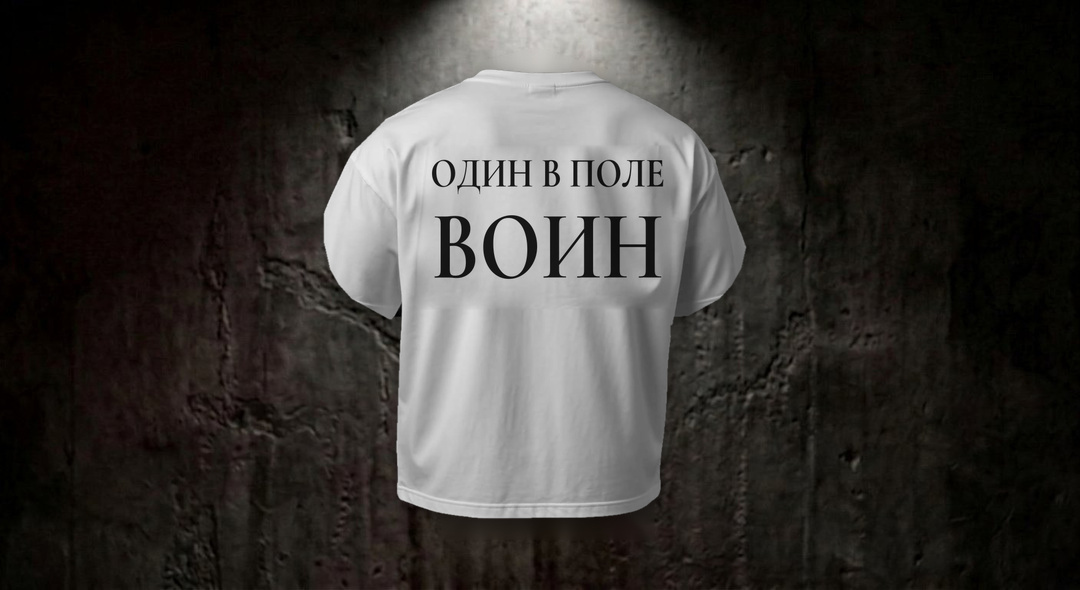
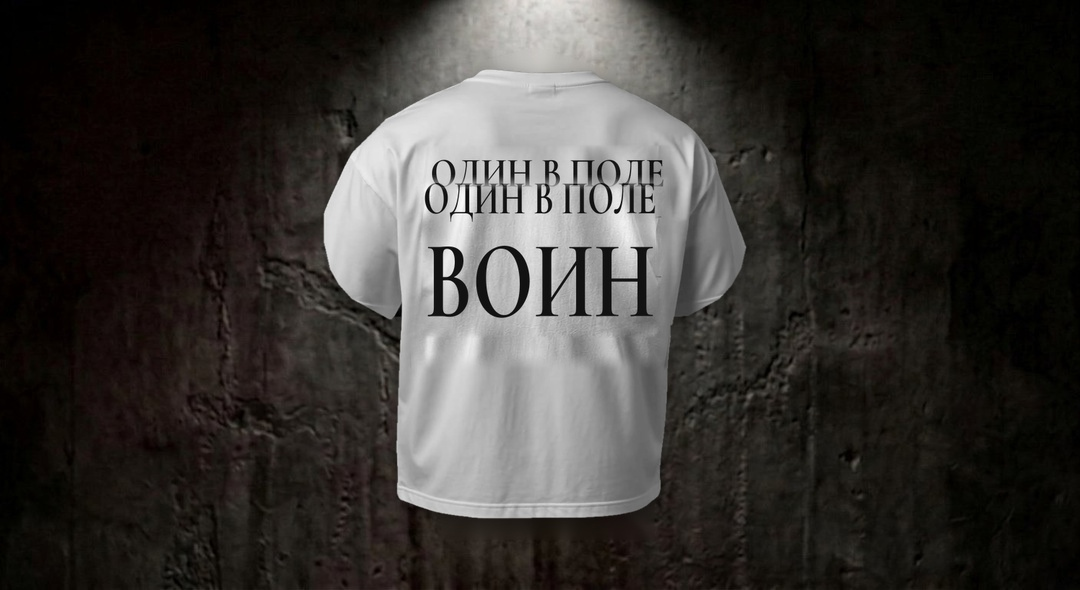
fix(catalog,media): eliminate blur boxes, wrong prints, and fake labels on product cards

Changed region(s): [[0.3667, 0.3051, 0.6111, 0.6102]]

diff --git a/miniapp/app.js b/miniapp/app.js
@@ -1321,7 +1321,7 @@
     const canPlay = welcomeCanPlay();
     const fallback = $("#welcomeFallback");
     const isPlaying = video.classList.contains("is-playing");
-    if (fallback) fallback.classList.toggle("hidden", isPlaying);
+    if (fallback) fallback.classList.toggle("hidden", canPlay || (!reducedMotion() && Boolean(welcomePlayback.source)));
     // Источник ставим сразу, не дожидаясь конца загрузки и гейта воспроизведения:
     // ролик буферизуется уже под бут-штампом и стартует мгновенно.
     if (!saverBlocked && !reducedMotion() && welcomePlayback.source && video.getAttribute("src") !== welcomePlayback.source) {

diff --git a/tools/fix_product_cards.py b/tools/fix_product_cards.py
@@ -1,0 +1,180 @@
+#!/usr/bin/env python3
+"""Fix all visual defects, blur boxes, wrong prints, and wrong tags in product cards."""
+from pathlib import Path
+from PIL import Image
+import numpy as np
+import cv2
+
+ROOT = Path(__file__).resolve().parents[1]
+MINIAPP = ROOT / "miniapp"
+SPIN = MINIAPP / "assets/spin"
+DROP = MINIAPP / "assets/drop"
+PHOTOS = ROOT / "task_materials/chat_export/photos"
+
+
+def fix_tee_sich():
+    print("Fixing tee-sila-i-chest...")
+    # 1. Flatlay: clean chest from original flatlay, real folded woven hem tag, blade & collar patch on back
+    v1 = Image.open(DROP / "tee-flatlay.jpg").resize((1080, 1080), Image.Resampling.LANCZOS)
+    v2 = Image.open(DROP / "tee-flatlay-v2.jpg")
+    flatlay = v1.copy()
+    # Right shirt (back) with collar patch & blade
+    right_shirt = v2.crop((530, 0, 1080, 1080))
+    flatlay.paste(right_shirt, (530, 0))
+    # Hem label on left shirt
+    hem_patch = v2.crop((475, 785, 515, 850))
+    flatlay.paste(hem_patch, (475, 785))
+    flatlay.save(DROP / "tee-flatlay-v2.jpg", quality=96)
+    print("  -> Updated tee-flatlay-v2.jpg")
+
+    # Woven tag patch for 3D spin frames
+    tag_patch_front = hem_patch.resize((26, 42), Image.Resampling.LANCZOS)
+
+    # 2. Spin frames tee-sich-01-v4 to 08-v4
+    # Frame 01 (front): sharp clean chest without inpainting blur, authentic woven folded label tag
+    s1 = Image.open(SPIN / "tee-sich-01.jpg").resize((1080, 590), Image.Resampling.LANCZOS)
+    s1.paste(tag_patch_front, (633, 475))
+    s1.save(SPIN / "tee-sich-01-v4.jpg", quality=96)
+
+    # Frame 02 (angle)
+    s2 = Image.open(SPIN / "tee-sich-02.jpg").resize((1080, 590), Image.Resampling.LANCZOS)
+    tag_patch_02 = hem_patch.resize((20, 40), Image.Resampling.LANCZOS)
+    s2.paste(tag_patch_02, (649, 454))
+    s2.save(SPIN / "tee-sich-02-v4.jpg", quality=96)
+
+    # Frame 03 (side)
+    s3 = Image.open(SPIN / "tee-sich-03.jpg").resize((1080, 590), Image.Resampling.LANCZOS)
+    tag_patch_03 = hem_patch.resize((22, 40), Image.Resampling.LANCZOS)
+    s3.paste(tag_patch_03, (594, 480))
+    s3.save(SPIN / "tee-sich-03-v4.jpg", quality=96)
+
+    # Frame 07 (side)
+    s7 = Image.open(SPIN / "tee-sich-07.jpg").resize((1080, 590), Image.Resampling.LANCZOS)
+    tag_patch_07 = hem_patch.resize((22, 40), Image.Resampling.LANCZOS)
+    s7.paste(tag_patch_07, (480, 475))
+    s7.save(SPIN / "tee-sich-07-v4.jpg", quality=96)
+
+    # Frame 08 (angle)
+    s8 = Image.open(SPIN / "tee-sich-08.jpg").resize((1080, 590), Image.Resampling.LANCZOS)
+    tag_patch_08 = hem_patch.resize((26, 42), Image.Resampling.LANCZOS)
+    s8.paste(tag_patch_08, (562, 475))
+    s8.save(SPIN / "tee-sich-08-v4.jpg", quality=96)
+
+    # Frames 04, 05, 06 are back views with collar patch and blade; they are preserved.
+    print("  -> Updated tee-sich spin frames v4")
+
+
+def fix_tee_vzglyad():
+    print("Fixing tee-vzglyad...")
+    p18_path = PHOTOS / "photo_18@24-10-2026_18-41-33.jpg"
+    p18 = Image.open(p18_path)
+
+    # 1. Detail image (1080x720) macro photo of the authentic warrior eyes print
+    crop_detail = p18.crop((85, 200, 625, 560)).resize((1080, 720), Image.Resampling.LANCZOS)
+    crop_detail.save(DROP / "tee-vzglyad-detail-v3.jpg", quality=96)
+    print("  -> Updated tee-vzglyad-detail-v3.jpg")
+
+    # 2. Extract transparent front graphic from photo 18
+    im_front = p18.crop((186, 246, 526, 504)).convert("RGB")
+    arr_f = np.array(im_front, dtype=np.float32)
+    h, w, _ = arr_f.shape
+    alpha_f = np.ones((h, w), dtype=np.float32)
+    max_f = np.max(arr_f[105:, :], axis=2)
+    alpha_text = np.clip((max_f - 24.0) / 40.0, 0.0, 1.0)
+    alpha_text = cv2.GaussianBlur(alpha_text, (3, 3), 0.5)
+    alpha_f[105:, :] = alpha_text
+    rgba_front = np.dstack([arr_f.astype(np.uint8), (alpha_f * 255).astype(np.uint8)])
+    img_rgba_front = Image.fromarray(rgba_front, "RGBA")
+
+    # Scale front art for 3D spin frames
+    front_scale = 210.0 / img_rgba_front.width
+    front_size = (int(img_rgba_front.width * front_scale), int(img_rgba_front.height * front_scale))
+    front_scaled = img_rgba_front.resize(front_size, Image.Resampling.LANCZOS)
+
+    # Clean chest frame from tee-sich-01.jpg
+    s1_cv = cv2.imread(str(SPIN / "tee-sich-01.jpg"))
+    gray = cv2.cvtColor(s1_cv, cv2.COLOR_BGR2GRAY)
+    mask = np.zeros_like(gray)
+    mask[160:240, 420:660] = (gray[160:240, 420:660] > 50).astype(np.uint8) * 255
+    mask = cv2.dilate(mask, np.ones((3, 3), np.uint8), iterations=1)
+    clean_chest_s1 = cv2.inpaint(s1_cv, mask, 3, cv2.INPAINT_TELEA)
+    clean_base = Image.fromarray(cv2.cvtColor(clean_chest_s1, cv2.COLOR_BGR2RGB)).resize((1080, 590), Image.Resampling.LANCZOS).convert("RGBA")
+
+    # Frame 01 (front)
+    v01 = clean_base.copy()
+    v01.alpha_composite(front_scaled, (540 - front_size[0] // 2, 150))
+    v01.convert("RGB").save(SPIN / "tee-vzglyad-01-v3.jpg", quality=96)
+    print("  -> Updated tee-vzglyad-01-v3.jpg")
+
+    # Frame 02 (angle front)
+    v02_art = img_rgba_front.resize((int(front_size[0] * 0.9), front_size[1]), Image.Resampling.LANCZOS)
+    v02 = Image.open(SPIN / "tee-vzglyad-02.jpg").resize((1080, 590), Image.Resampling.LANCZOS).convert("RGBA")
+    v02_cv = cv2.cvtColor(np.array(v02), cv2.COLOR_RGBA2BGR)
+    mask2 = np.zeros(v02_cv.shape[:2], np.uint8)
+    mask2[150:310, 480:680] = 255
+    v02_clean = cv2.inpaint(v02_cv, mask2, 5, cv2.INPAINT_TELEA)
+    v02 = Image.fromarray(cv2.cvtColor(v02_clean, cv2.COLOR_BGR2RGBA))
+    v02.alpha_composite(v02_art, (510, 150))
+    v02.convert("RGB").save(SPIN / "tee-vzglyad-02-v3.jpg", quality=96)
+
+    # Frame 08 (angle front other side)
+    v08 = Image.open(SPIN / "tee-vzglyad-08.jpg").resize((1080, 590), Image.Resampling.LANCZOS).convert("RGBA")
+    v08_cv = cv2.cvtColor(np.array(v08), cv2.COLOR_RGBA2BGR)
+    mask8 = np.zeros(v08_cv.shape[:2], np.uint8)
+    mask8[150:310, 420:600] = 255
+    v08_clean = cv2.inpaint(v08_cv, mask8, 5, cv2.INPAINT_TELEA)
+    v08 = Image.fromarray(cv2.cvtColor(v08_clean, cv2.COLOR_BGR2RGBA))
+    v08.alpha_composite(v02_art, (430, 150))
+    v08.convert("RGB").save(SPIN / "tee-vzglyad-08-v3.jpg", quality=96)
+
+    # Frame 07 (side) - restore unblemished original to remove fake hem stick monogram
+    v07_orig = Image.open(SPIN / "tee-vzglyad-07.jpg").resize((1080, 590), Image.Resampling.LANCZOS)
+    v07_orig.save(SPIN / "tee-vzglyad-07-v3.jpg", quality=96)
+
+    # 3. Back frames: use uncorrupted originals with authentic stone cross & circular values ring
+    v05_orig = Image.open(SPIN / "tee-vzglyad-05.jpg").resize((1080, 590), Image.Resampling.LANCZOS)
+    v05_orig.save(SPIN / "tee-vzglyad-05-v3.jpg", quality=96)
+
+    v04_orig = Image.open(SPIN / "tee-vzglyad-04.jpg").resize((1080, 590), Image.Resampling.LANCZOS)
+    v04_orig.save(SPIN / "tee-vzglyad-04-v3.jpg", quality=96)
+
+    v06_orig = Image.open(SPIN / "tee-vzglyad-06.jpg").resize((1080, 590), Image.Resampling.LANCZOS)
+    v06_orig.save(SPIN / "tee-vzglyad-06-v3.jpg", quality=96)
+    print("  -> Updated tee-vzglyad spin frames v3 (clean front art, clean circular values back, no fake hem monograms)")
+
+
+def fix_tee_odin():
+    print("Fixing tee-odin-v-pole-voin...")
+    # 1. Detail image bottom right: clean white cotton back text without grey inpaint box
+    detail = Image.open(DROP / "odin-voin-detail-v3.jpg")
+    back_clean = Image.open(DROP / "odin-voin-back-v3.jpg")
+    crop_back = back_clean.crop((160, 150, 540, 420)).resize((540, 360), Image.Resampling.LANCZOS)
+    detail.paste(crop_back, (540, 360))
+    detail.save(DROP / "odin-voin-detail-v3.jpg", quality=96)
+    print("  -> Updated odin-voin-detail-v3.jpg")
+
+    # 2. Back spin frame 05-v8: seamless feathered blend of back typography
+    crop_back_text = back_clean.crop((170, 150, 530, 420)).resize((260, 195), Image.Resampling.LANCZOS)
+    h, w = 195, 260
+    mask = np.ones((h, w), dtype=np.float32)
+    feather = 15
+    for i in range(feather):
+        mask[i, :] = np.minimum(mask[i, :], i / feather)
+        mask[h - 1 - i, :] = np.minimum(mask[h - 1 - i, :], i / feather)
+        mask[:, i] = np.minimum(mask[:, i], i / feather)
+        mask[:, w - 1 - i] = np.minimum(mask[:, w - 1 - i], i / feather)
+    mask = cv2.GaussianBlur(mask, (5, 5), 1.0)
+    crop_rgba = crop_back_text.convert("RGBA")
+    crop_rgba.putalpha(Image.fromarray((mask * 255).astype(np.uint8)))
+
+    odin_05 = Image.open(SPIN / "odin-voin-05-v8.jpg").convert("RGBA")
+    odin_05.alpha_composite(crop_rgba, (410, 175))
+    odin_05.convert("RGB").save(SPIN / "odin-voin-05-v8.jpg", quality=96)
+    print("  -> Updated odin-voin-05-v8.jpg")
+
+
+if __name__ == "__main__":
+    fix_tee_sich()
+    fix_tee_vzglyad()
+    fix_tee_odin()
+    print("All fixes applied successfully!")
